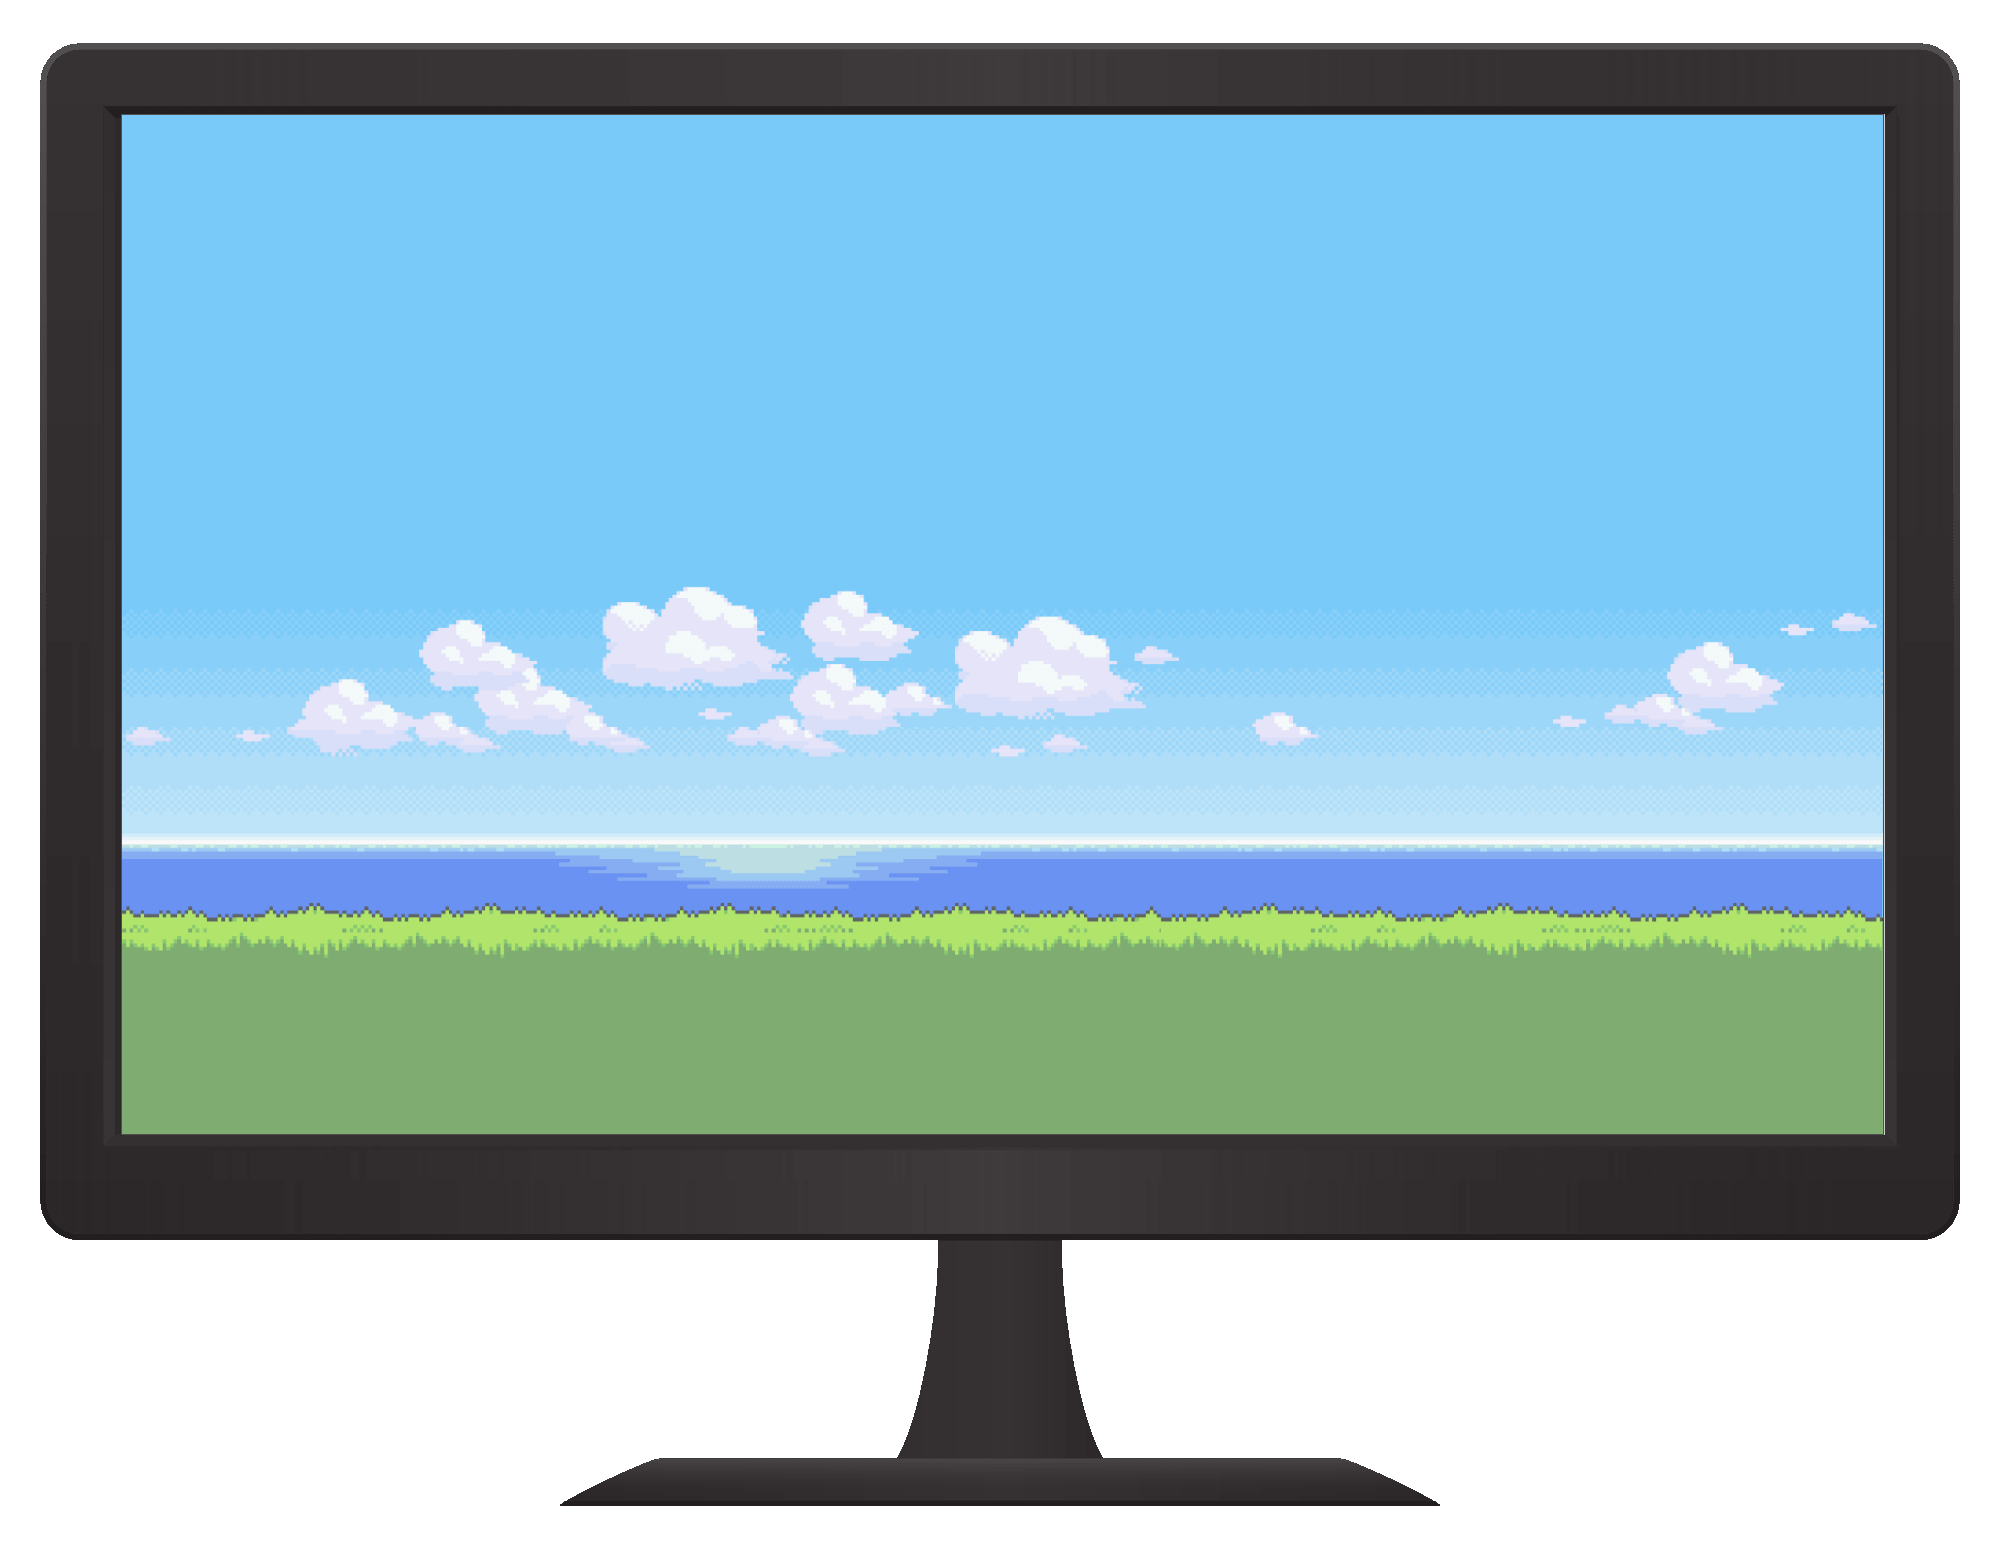
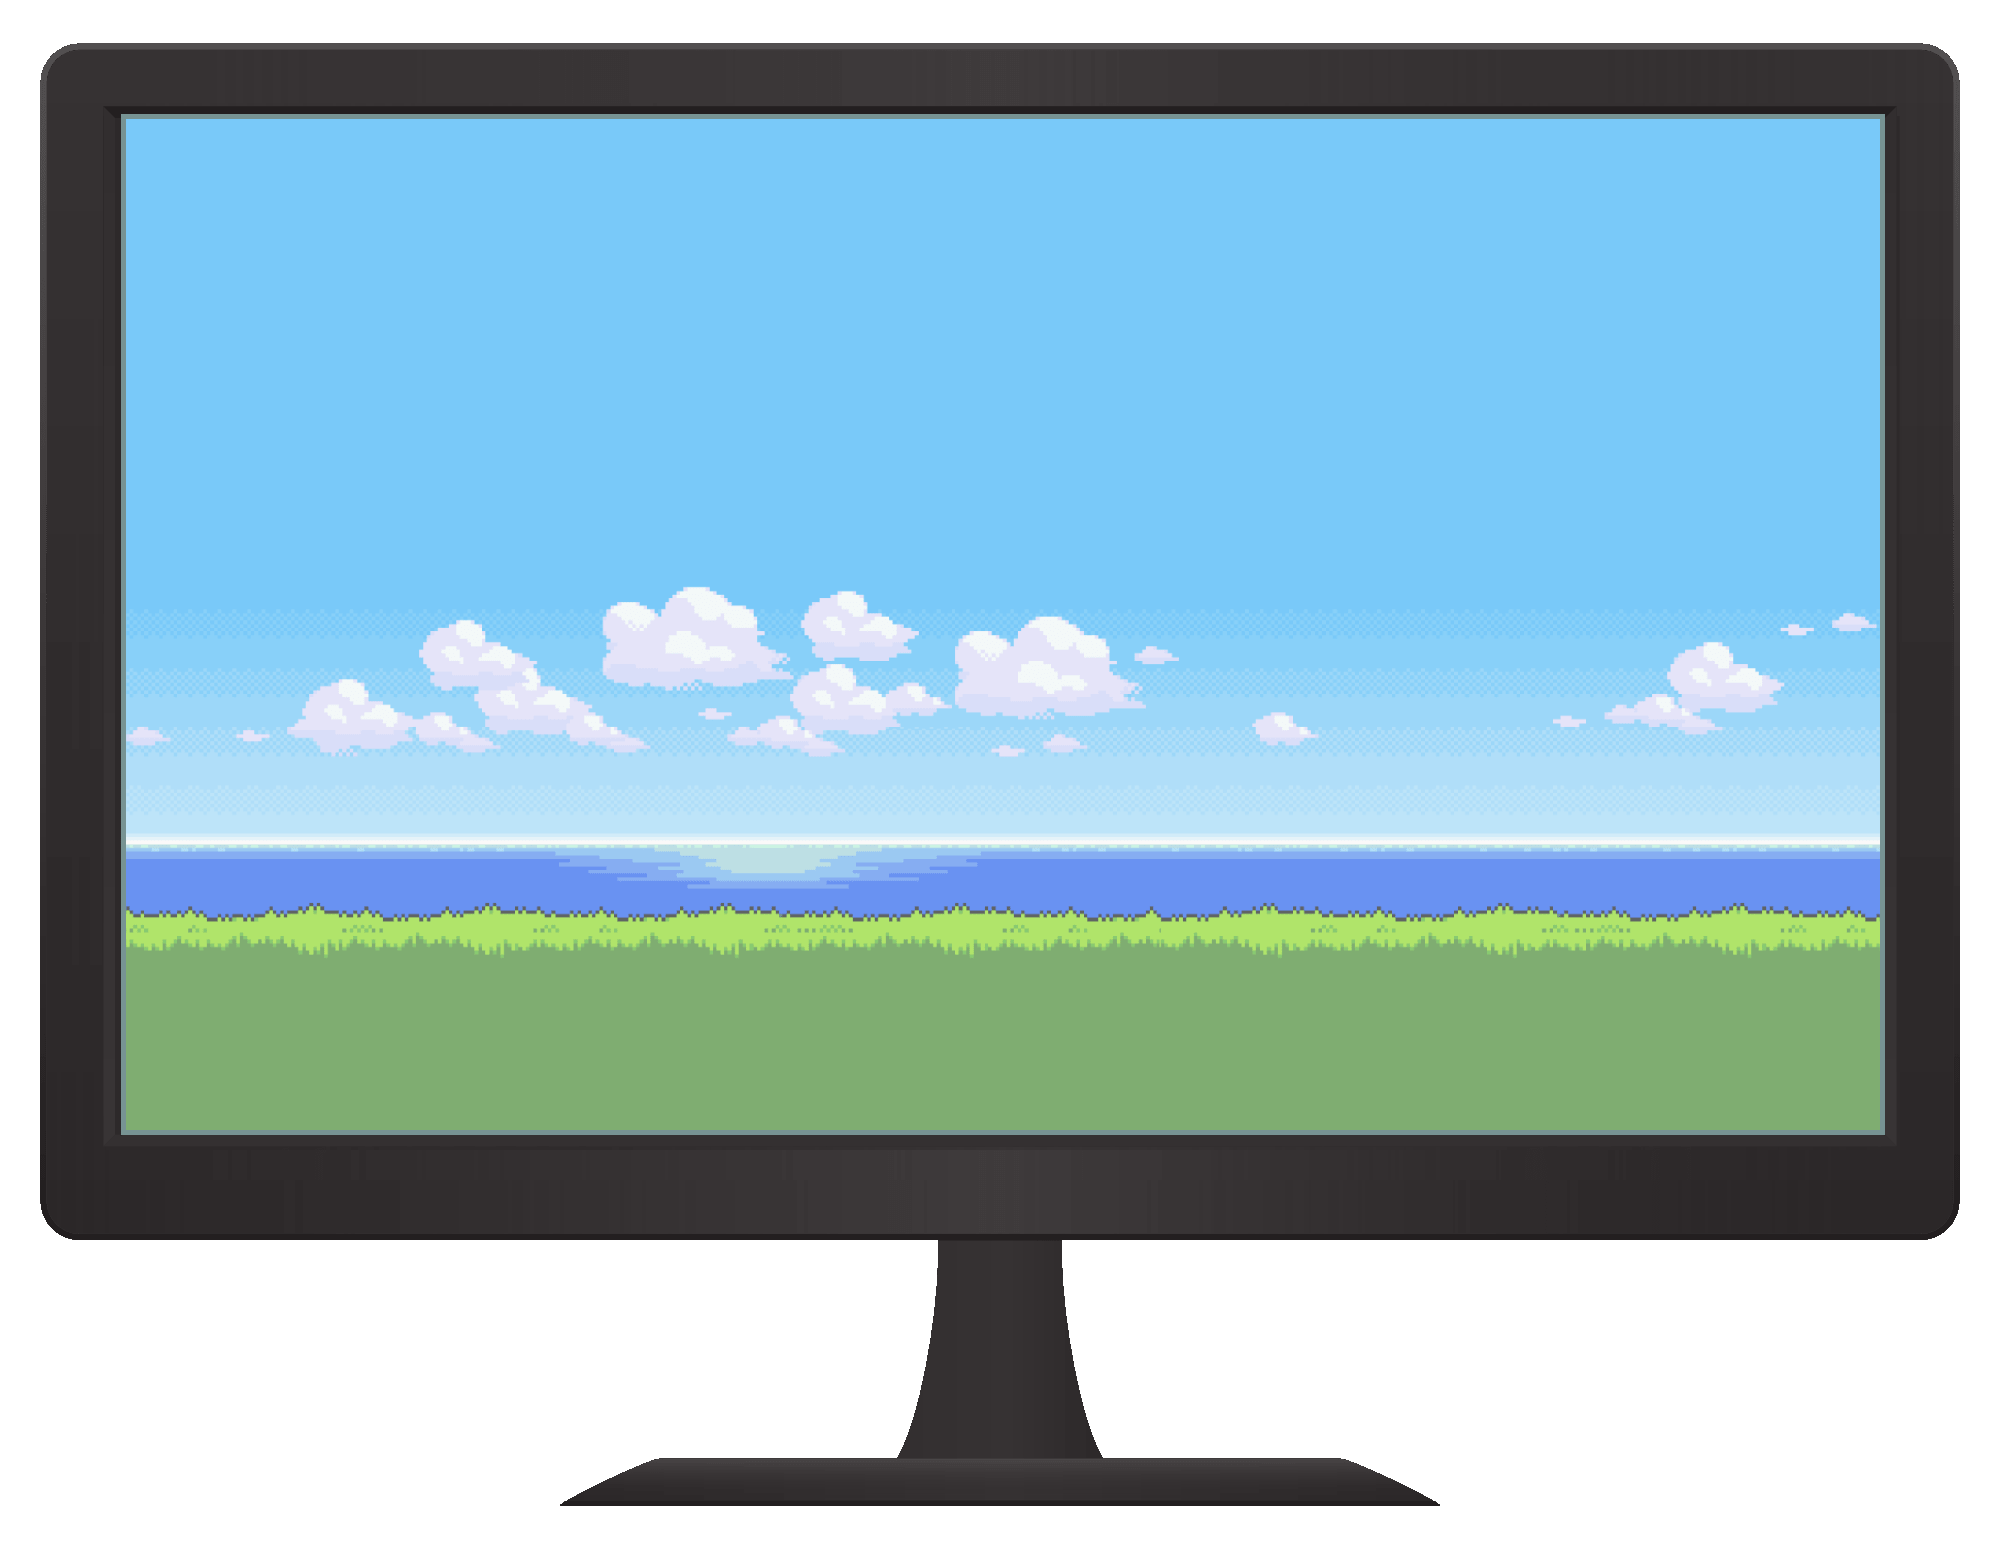
Monitor space limit

Changed region(s): [[0.062, 0.7123, 0.93, 0.7432], [0.062, 0.0619, 0.93, 0.0929]]

diff --git a/LearnMathAndScripts/main.py b/LearnMathAndScripts/main.py
@@ -2,25 +2,29 @@ import pygame
 import globals
 
 from menu import Menu
+from gradients import vertical
 from person import Person
 from control import Control
 from monitor import Monitor
+from folder import Folder
 
 pygame.init()
+pygame.font.init()
+
 clock = pygame.time.Clock()
 
-pixels = []
-flags = pygame.RESIZABLE
-game_screen = pygame.display.set_mode((globals.WIDTH, globals.HEIGHT), flags)
+game_screen = pygame.display.set_mode((globals.WIDTH, globals.HEIGHT), 0, 32)
 itens = pygame.image.load('resources/images/itens.png')
+folder_image = pygame.image.load('resources/images/folder.png')
 font = pygame.font.SysFont("Arial", 18)
 menu = Menu()
 mained = Person(75, 2, (globals.WIDTH - 38) / 2, (globals.HEIGHT - 58) / 2, 38, 58)
 
 lr = [[75, 11, 139], [78, 13, 141], [77, 13, 141], [76, 12, 139]]
+folders = [[75, 75]]
 
 def maske_blit(win, img, wx, wy, x, y, w, h):
-    pygame.draw.rect(game_screen, (255, 0, 0), (x, y, w, h), 2)
+    # pygame.draw.rect(game_screen, (255, 0, 0), (x, y, w, h), 2)
     surf = pygame.Surface((w, h), pygame.SRCALPHA).convert_alpha()
     surf.blit(img, (0, 0), (wx, wy, w, h))
     win.blit(surf, (x, y))
@@ -30,21 +34,25 @@ def update_fps():
     fps_text = font.render("FPS: {}".format(fps), 1, pygame.color.Color("blue"))
     return fps_text
 
-
-control = Control()
 monitor = Monitor(game_screen)
+control = Control()
+gradient = vertical((game_screen.get_width(), game_screen.get_height()), (25, 111, 247, 255), (180, 207, 250, 255))
 
 running = True
 while running:
-    for i in range(game_screen.get_width()):
-        for j in range(game_screen.get_height()):
-            pixels.append(game_screen.get_at((i, j)))
-
-    control.use(mained, pixels)
 
     clock.tick(globals.FRAME_RATE)
 
+    game_screen.blit(gradient, (0, 0))
+
+    surface = monitor.draw(game_screen)
+    
+    control.use(mained, game_screen, surface)
+
     menu.render(game_screen)
+    
+    for folder in folders:
+        Folder(folder[0], folder[1], game_screen, folder_image)
 
     for event in pygame.event.get():
         if event.type == pygame.QUIT:
@@ -57,10 +65,6 @@ while running:
             if (event.key == pygame.K_w) or (event.key == pygame.K_s) or (event.key == pygame.K_a) or (
                     event.key == pygame.K_d):
                 control.reset()
-
-    game_screen.fill((66, 135, 245))
-
-    monitor.draw(game_screen)
 
     maske_blit(game_screen, itens, lr[control.dir][int(control.mov / 10)], control.top, mained.x, mained.y, mained.w,
                mained.h)

diff --git a/LearnMathAndScripts/control.py b/LearnMathAndScripts/control.py
@@ -7,35 +7,36 @@ class Control:
         self.mov = 0
         self.top = 2
 
-    def use(self, obj, pixels):
+    def use(self, obj, screen, monitor_surface):
         key = pygame.key.get_pressed()
 
         if key[pygame.K_s]:
             self.mov += 1
             self.dir = 0
             self.top = 2
-            obj.y += 1
-            for pixel in pixels:
-                if (pixel == (54, 50, 51)):
-                    print(pixel)
+            if monitor_surface.get_at((int(obj.x), int(obj.y+1)+obj.h)) != (119, 147, 147, 255):
+                obj.y += 1
 
         if key[pygame.K_w]:
             self.mov += 1
             self.dir = 3
             self.top = 193
-            obj.y -= 1
+            if monitor_surface.get_at((int(obj.x), int(obj.y-1))) != (119, 147, 147, 255):
+                obj.y -= 1
 
         if key[pygame.K_a]:
             self.mov += 1
             self.dir = 1
             self.top = 65
-            obj.x -= 1
+            if monitor_surface.get_at((int(obj.x-1), int(obj.y)+obj.h)) != (119, 147, 147, 255):
+                obj.x -= 1
 
         if key[pygame.K_d]:
             self.mov += 1
             self.dir = 2
             self.top = 129
-            obj.x += 1
+            if monitor_surface.get_at((int(obj.x+1)+obj.w, int(obj.y)+obj.h)) != (119, 147, 147, 255):
+                obj.x += 1
 
         if self.mov > 29:
             self.mov = 0

diff --git a/LearnMathAndScripts/monitor.py b/LearnMathAndScripts/monitor.py
@@ -3,11 +3,14 @@ import pygame
 
 class Monitor:
     def __init__(self, screen):
-        self.background = pygame.image.load('resources/images/monitor.png').convert_alpha()
+        self.background = pygame.image.load('resources/images/monitor.png')
         self.background = pygame.transform.scale(self.background, (screen.get_width(), screen.get_height()))
 
     def draw(self, screen):
-        screen.blit(
+        surface = pygame.Surface((screen.get_width(), screen.get_height()), pygame.SRCALPHA).convert_alpha()
+        surface.blit(
             self.background,
             ((screen.get_width() - self.background.get_width()) / 2,
              (screen.get_height() - (self.background.get_height() - 15)) / 2))
+        screen.blit(surface, (0, 0))
+        return surface

diff --git a/LearnMathAndScripts/gradients.py b/LearnMathAndScripts/gradients.py
@@ -1,0 +1,18 @@
+import pygame
+
+def vertical(size, start_color, end_color):
+    height = size[1]
+    bigSurf = pygame.Surface((1, height)).convert_alpha()
+    dd = 1.0/height
+    sr, sg, sb, sa = start_color
+    er, eg, eb, ea = end_color
+
+    rm = (er-sr)*dd
+    gm = (eg-sg)*dd
+    bm = (eb-sb)*dd
+    am = (ea-sa)*dd
+
+    for y in range(height):
+        bigSurf.set_at((0, y), (int(sr + rm*y), int(sg + gm*y), int(sb + bm*y), int(sa + am*y)))
+
+    return pygame.transform.scale(bigSurf, size)

diff --git a/LearnMathAndScripts/folder.py b/LearnMathAndScripts/folder.py
@@ -1,0 +1,9 @@
+import pygame
+
+class Folder:
+    def __init__(self, x, y, screen, image):
+        myfont = pygame.font.SysFont('Comic Sans MS', 17)
+        textsurface = myfont.render('Jogo do avião', False, (0, 0, 0))
+        image = pygame.transform.scale(image, (50, 50))
+        screen.blit(image, (x, y))
+        screen.blit(textsurface, (x-10,y+50))

diff --git a/LearnMathAndScripts/globals.py b/LearnMathAndScripts/globals.py
@@ -7,4 +7,4 @@ RED = (255, 0, 0)
 GREEN = (0, 255, 0)
 BLUE = (0, 0, 255)
 
-FRAME_RATE = 120
+FRAME_RATE = 60
